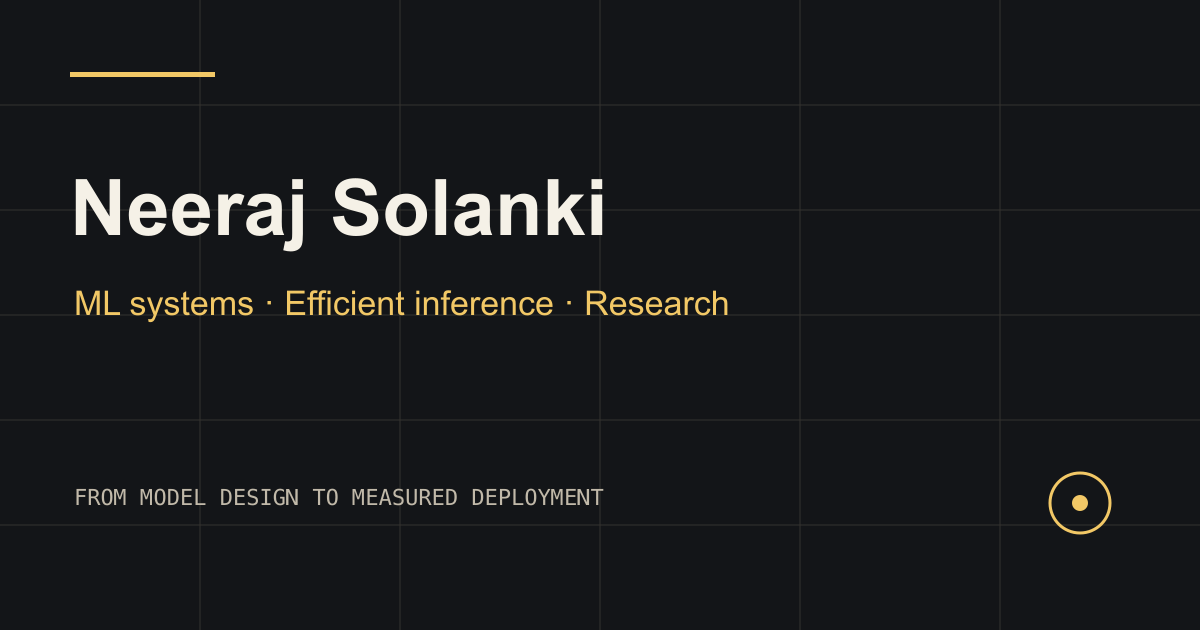
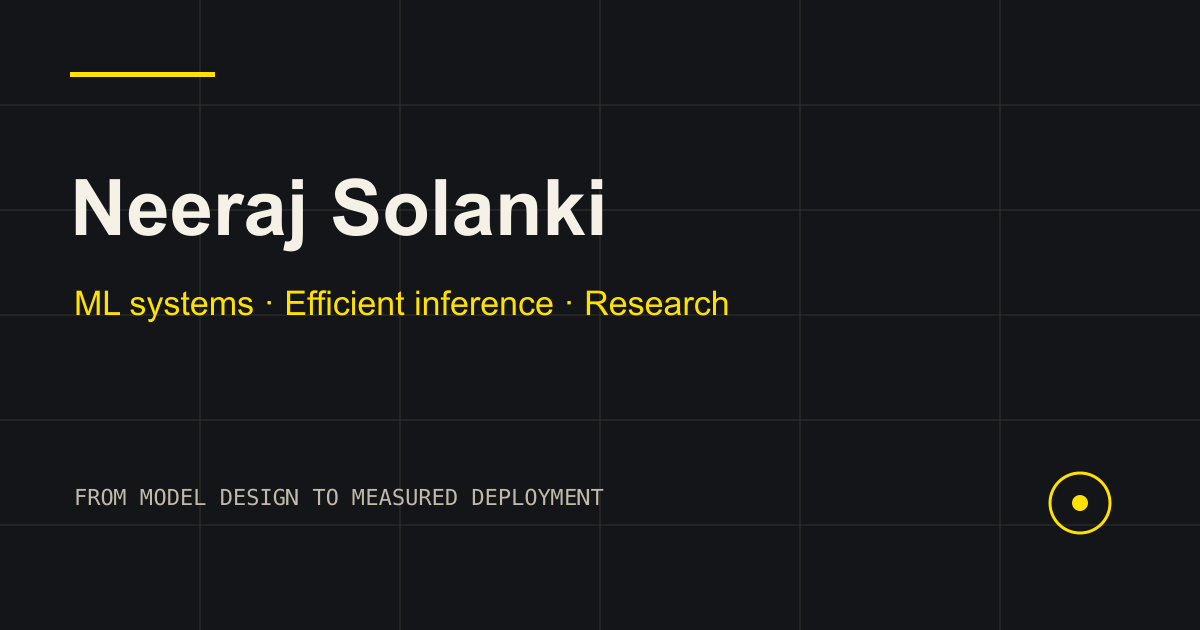
Brighten portfolio yellow accents

diff --git a/src/styles/global.css b/src/styles/global.css
@@ -8,11 +8,11 @@
   --muted: #c1b9a9;
   --dim: #a8a296;
   --line: #3d4140;
-  --accent: #f2c866;
-  --accent-fill: #f2c866;
-  --accent-fill-hover: #ffdc82;
-  --accent-ink: #251c0b;
-  --soft: #30291c;
+  --accent: #ffe100;
+  --accent-fill: #ffe100;
+  --accent-fill-hover: #fff04d;
+  --accent-ink: #201b00;
+  --soft: #312d10;
   --header: rgba(19, 21, 24, 0.92);
 }
 :root[data-theme='light'] {
@@ -24,11 +24,11 @@
   --muted: #625b50;
   --dim: #6c655b;
   --line: #d9d1c0;
-  --accent: #835b00;
-  --accent-fill: #f0bd44;
-  --accent-fill-hover: #e5b02e;
-  --accent-ink: #251c0b;
-  --soft: #f6ecd6;
+  --accent: #705400;
+  --accent-fill: #ffdf00;
+  --accent-fill-hover: #f1d000;
+  --accent-ink: #201b00;
+  --soft: #fff5c6;
   --header: rgba(250, 248, 241, 0.92);
 }
 * {
@@ -130,7 +130,7 @@ a:hover {
   height: 6px;
   display: inline-block;
   border-radius: 50%;
-  background: var(--accent);
+  background: var(--accent-fill);
   box-shadow: 0 0 0 4px var(--soft);
 }
 h1,
@@ -338,6 +338,14 @@ p {
 .hero h1 em {
   font-style: normal;
   color: var(--accent);
+}
+:root[data-theme='light'] .hero h1 em {
+  background: var(--accent-fill);
+  color: var(--accent-ink);
+  border-radius: 0.04em;
+  padding-inline: 0.04em;
+  box-decoration-break: clone;
+  -webkit-box-decoration-break: clone;
 }
 .hero-lede {
   max-width: 630px;
